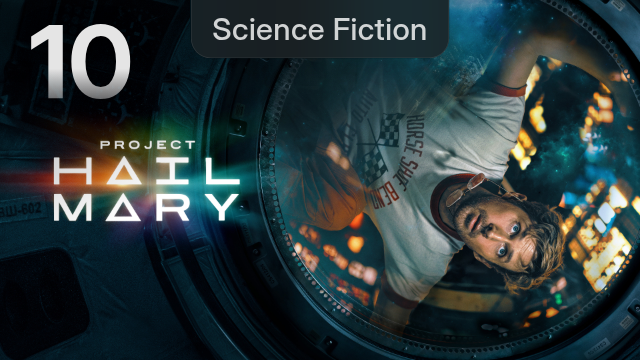
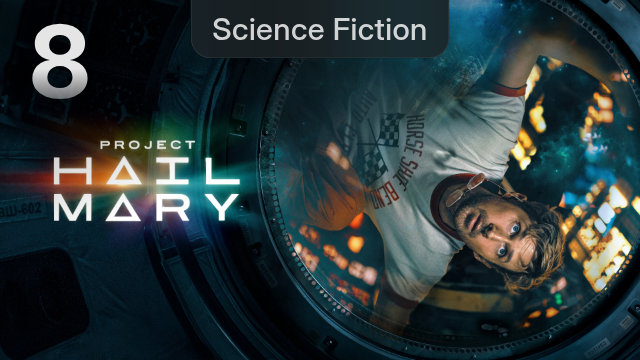
force changes

Changed region(s): [[0.0312, 0.0611, 0.2188, 0.275]]

diff --git a/updateCatalog.js b/updateCatalog.js
@@ -445,7 +445,8 @@ async function getTopMovies() {
             imdbRating: imdbRating,
             imdbId: imdbId,
             poster:
-                `${GITHUB_PAGES}/${imdbId}.png?v=${BUILD_TIMESTAMP}`,
+                // `${GITHUB_PAGES}/${imdbId}.png?v=${BUILD_TIMESTAMP}`,
+                `${GITHUB_PAGES}/${series.length + 1}.png?v=${BUILD_TIMESTAMP}`,
 
 
             tmdbPoster:
@@ -587,7 +588,8 @@ async function getTopSeries() {
 
 
             poster:
-                `${GITHUB_PAGES}/${imdbId}.png?v=${BUILD_TIMESTAMP}`,
+                // `${GITHUB_PAGES}/${imdbId}.png?v=${BUILD_TIMESTAMP}`,
+                `${GITHUB_PAGES}/${series.length + 1}.png?v=${BUILD_TIMESTAMP}`,
 
             HDPoster:
                 images.HDPoster,
@@ -648,7 +650,8 @@ function saveCatalog(path, name, metas, posterShape = "portrait") {
     if (posterShape === "landscape") {
         metas = metas.map(meta => ({
             ...meta,
-            poster: `${GITHUB_PAGES}/landscape${meta.imdbId}.png?v=${BUILD_TIMESTAMP}`
+            // poster: `${GITHUB_PAGES}/landscape${meta.imdbId}.png?v=${BUILD_TIMESTAMP}`
+            poster: `${GITHUB_PAGES}/landscape${meta}.png?v=${BUILD_TIMESTAMP}`
         }));
     }
 
@@ -684,8 +687,10 @@ function saveLandscapeCatalog(path, name, metas) {
 
         return {
             ...rest,
-            poster: `${GITHUB_PAGES}/${meta.imdbId}.png?v=${BUILD_TIMESTAMP}`,
-            background: `${GITHUB_PAGES}/landscape${meta.imdbId}.png?v=${BUILD_TIMESTAMP}`
+            // poster: `${GITHUB_PAGES}/${meta.imdbId}.png?v=${BUILD_TIMESTAMP}`,
+            poster: `${GITHUB_PAGES}/${meta.rank}.png?v=${BUILD_TIMESTAMP}`,
+            // background: `${GITHUB_PAGES}/landscape${meta.imdbId}.png?v=${BUILD_TIMESTAMP}`
+            background: `${GITHUB_PAGES}/landscape${meta.rank}.png?v=${BUILD_TIMESTAMP}`
         };
     });
 
